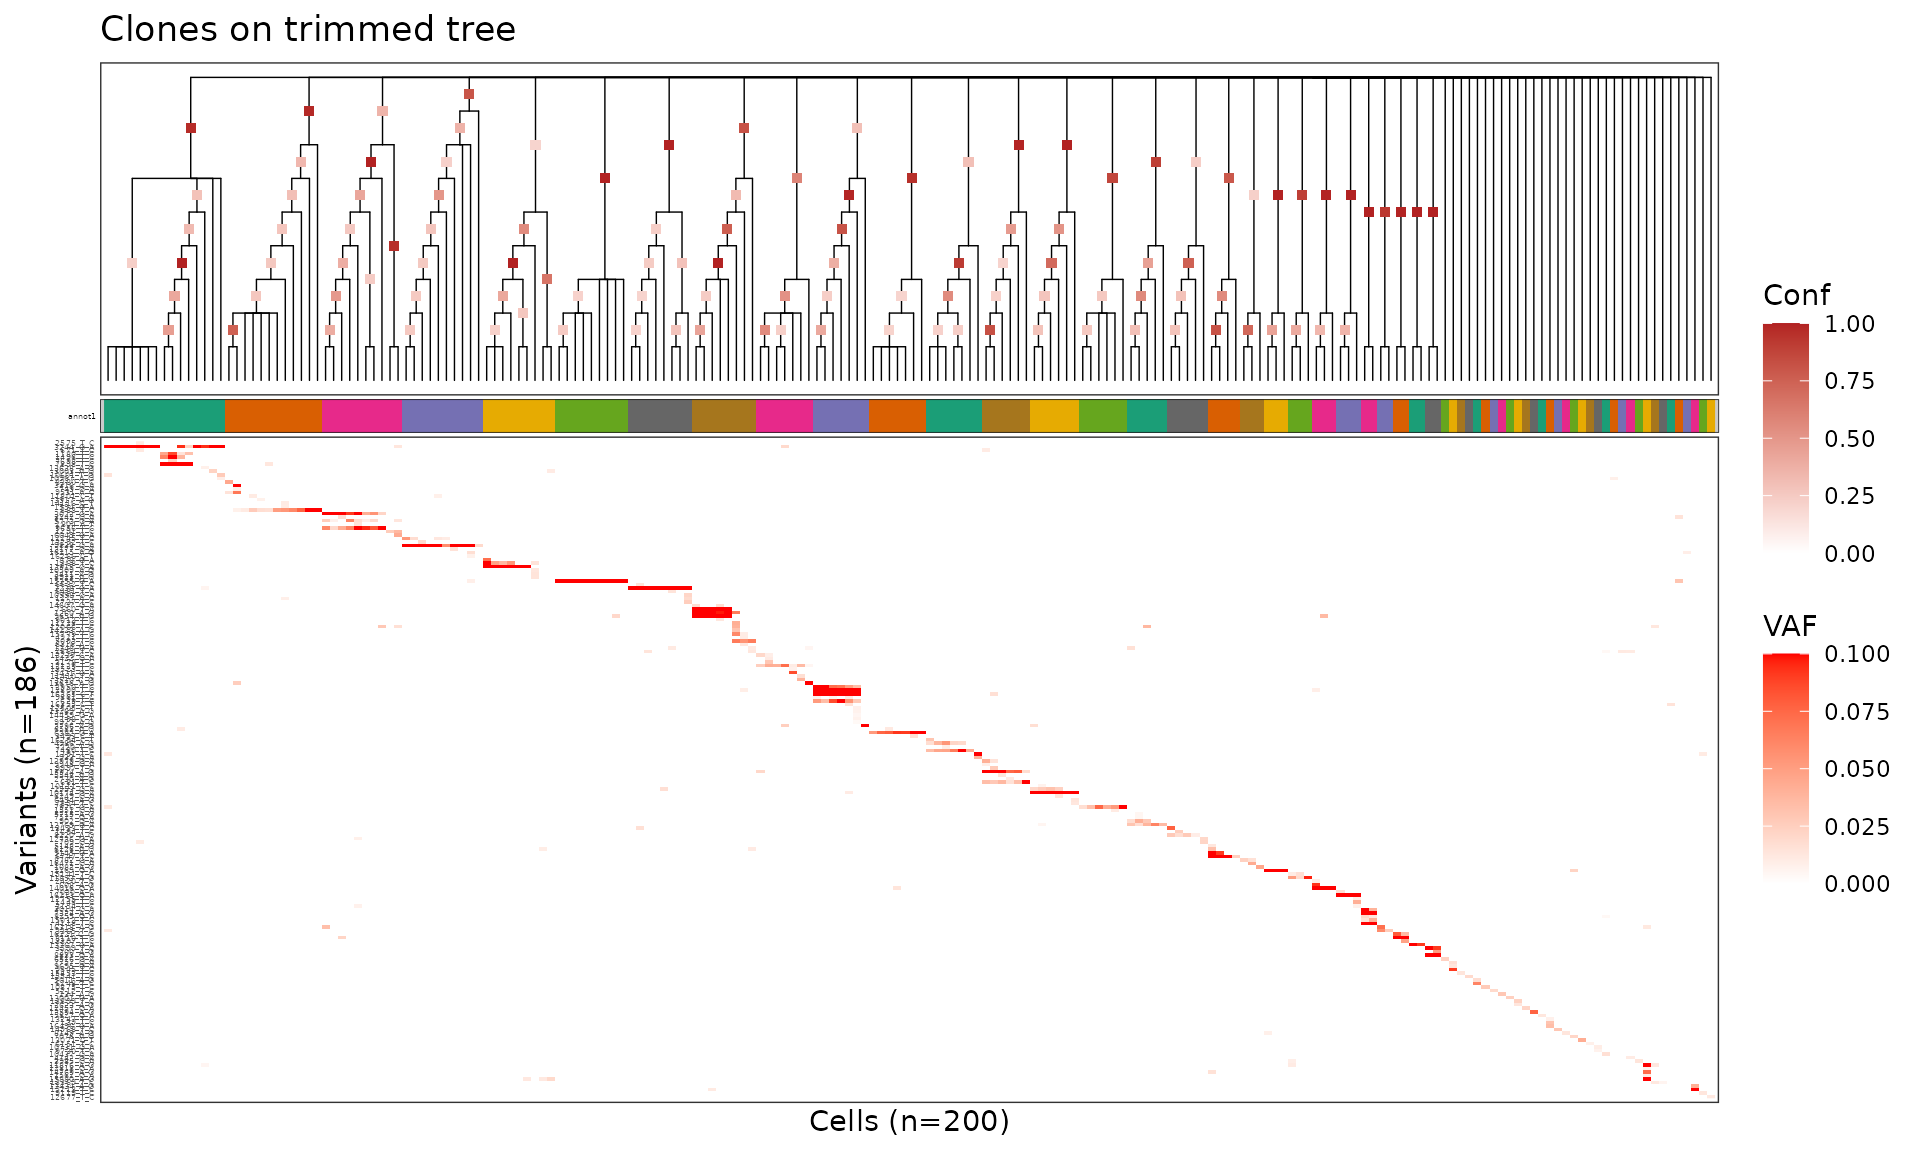
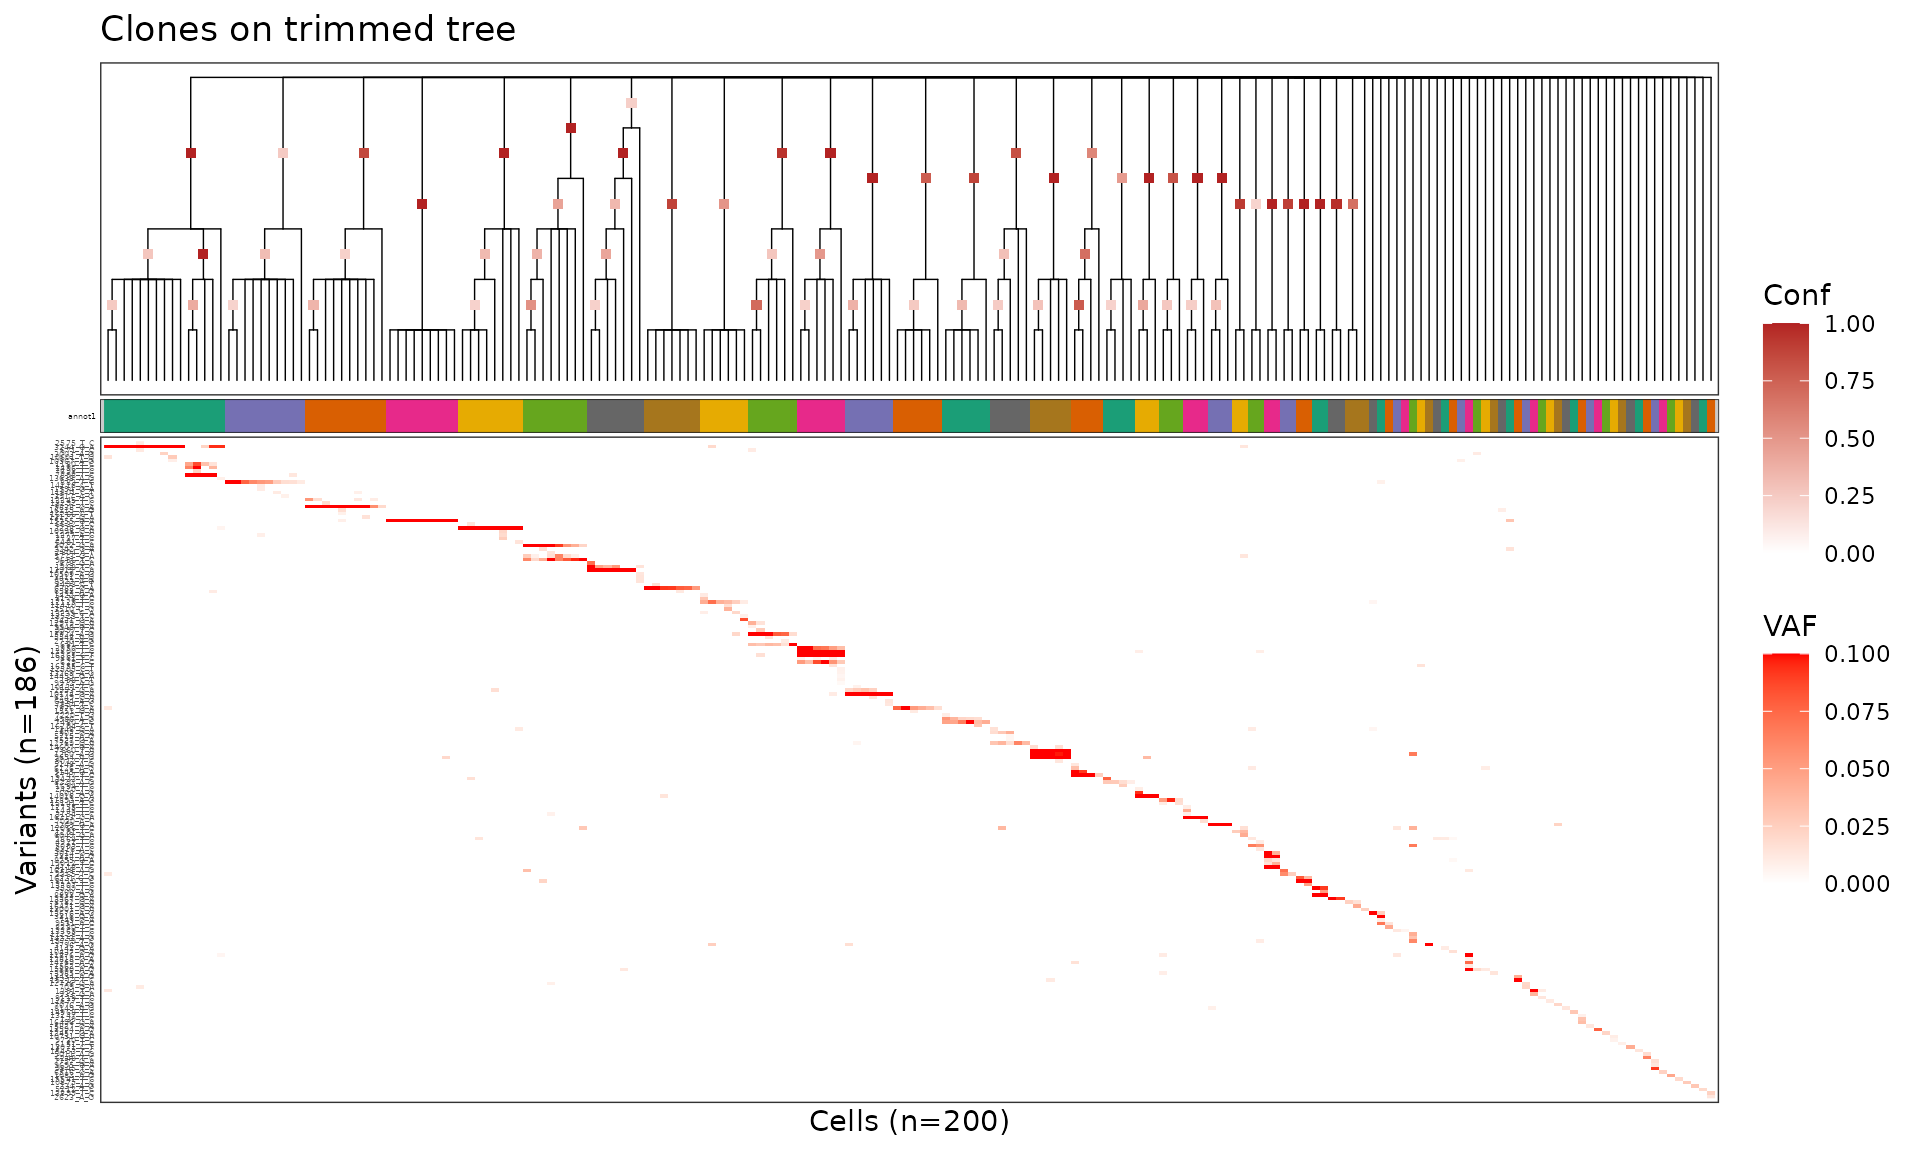
Deploying to gh-pages from @ teng-gao/mitodrift@2159cbc944da03ff266cebc3220e5bf2f8469588 🚀

diff --git a/articles/analysis-workflow.html b/articles/analysis-workflow.html
@@ -94,13 +94,23 @@ lineage tree.</li>
 <span><span class="kw"><a href="https://rdrr.io/r/base/library.html" class="external-link">library</a></span><span class="op">(</span><span class="va"><a href="https://patchwork.data-imaginist.com" class="external-link">patchwork</a></span><span class="op">)</span></span></code></pre></div>
 <p>We use a small in vitro LARRY barcode sample (200 cells, 186
 variants) bundled with the package.</p>
-<div class="sourceCode" id="cb2"><pre class="downlit sourceCode r">
-<code class="sourceCode R"><span><span class="fu"><a href="https://rdrr.io/r/utils/data.html" class="external-link">data</a></span><span class="op">(</span><span class="va">pL1000_tree_annot</span><span class="op">)</span></span>
-<span><span class="fu"><a href="https://rdrr.io/r/utils/data.html" class="external-link">data</a></span><span class="op">(</span><span class="va">pL1000_mut_dat</span><span class="op">)</span></span></code></pre></div>
-<p>In a typical workflow you would load the annotated tree from
-MitoDrift output:</p>
+<p>Run the same inference command used in the README:</p>
+<div class="sourceCode" id="cb2"><pre class="sourceCode bash"><code class="sourceCode bash"><span id="cb2-1"><a href="#cb2-1" tabindex="-1"></a><span class="ex">Rscript</span> inst/bin/run_mitodrift_em.R <span class="dt">\</span></span>
+<span id="cb2-2"><a href="#cb2-2" tabindex="-1"></a>  <span class="at">--mut_dat</span> inst/extdata/pL1000_mut_dat.csv <span class="dt">\</span></span>
+<span id="cb2-3"><a href="#cb2-3" tabindex="-1"></a>  <span class="at">--outdir</span> mitodrift_demo <span class="dt">\</span></span>
+<span id="cb2-4"><a href="#cb2-4" tabindex="-1"></a>  <span class="at">--tree_mcmc_iter</span> 5000 <span class="dt">\</span></span>
+<span id="cb2-5"><a href="#cb2-5" tabindex="-1"></a>  <span class="at">--tree_mcmc_chains</span> 4 <span class="dt">\</span></span>
+<span id="cb2-6"><a href="#cb2-6" tabindex="-1"></a>  <span class="at">--tree_mcmc_burnin</span> 1000</span></code></pre></div>
+<p>This writes <code>mitodrift_demo/mitodrift_object.rds</code> and
+<code>mitodrift_demo/tree_annotated.newick</code>. The workflow below
+uses the same mutation table and an annotated tree generated with those
+settings.</p>
 <div class="sourceCode" id="cb3"><pre class="downlit sourceCode r">
-<code class="sourceCode R"><span><span class="co"># tree_annot &lt;- ape::read.tree("tree_annotated.newick")</span></span></code></pre></div>
+<code class="sourceCode R"><span><span class="va">mut_dat</span> <span class="op">&lt;-</span> <span class="fu"><a href="https://rdrr.io/r/utils/read.table.html" class="external-link">read.csv</a></span><span class="op">(</span></span>
+<span>  <span class="fu"><a href="https://rdrr.io/r/base/system.file.html" class="external-link">system.file</a></span><span class="op">(</span><span class="st">"extdata"</span>, <span class="st">"pL1000_mut_dat.csv"</span>, package <span class="op">=</span> <span class="st">"mitodrift"</span><span class="op">)</span></span>
+<span><span class="op">)</span></span>
+<span><span class="fu"><a href="https://rdrr.io/r/utils/data.html" class="external-link">data</a></span><span class="op">(</span><span class="va">pL1000_tree_annot</span><span class="op">)</span></span>
+<span><span class="va">tree_annot</span> <span class="op">&lt;-</span> <span class="va">pL1000_tree_annot</span></span></code></pre></div>
 </div>
 <div class="section level2">
 <h2 id="visualize-the-full-binary-tree">Visualize the full binary tree<a class="anchor" aria-label="anchor" href="#visualize-the-full-binary-tree"></a>
@@ -110,8 +120,8 @@ variant heteroplasmy heatmap. Setting <code>node_conf = TRUE</code>
 colours internal nodes by their confidence score.</p>
 <div class="sourceCode" id="cb4"><pre class="downlit sourceCode r">
 <code class="sourceCode R"><span><span class="fu"><a href="../reference/plot_phylo_heatmap2.html">plot_phylo_heatmap2</a></span><span class="op">(</span></span>
-<span>  <span class="va">pL1000_tree_annot</span>,</span>
-<span>  <span class="va">pL1000_mut_dat</span>,</span>
+<span>  <span class="va">tree_annot</span>,</span>
+<span>  <span class="va">mut_dat</span>,</span>
 <span>  node_conf <span class="op">=</span> <span class="cn">TRUE</span>,</span>
 <span>  dot_size <span class="op">=</span> <span class="fl">2</span>,</span>
 <span>  branch_length <span class="op">=</span> <span class="cn">FALSE</span>,</span>
@@ -127,7 +137,7 @@ partitions against tree clades across a sweep of confidence cutoffs.
 This helps identify a threshold that balances precision (are the clades
 real?) and recall (are we keeping enough structure?).</p>
 <div class="sourceCode" id="cb5"><pre class="downlit sourceCode r">
-<code class="sourceCode R"><span><span class="va">pr_df</span> <span class="op">&lt;-</span> <span class="fu"><a href="../reference/compute_variant_pr_curve.html">compute_variant_pr_curve</a></span><span class="op">(</span><span class="va">pL1000_tree_annot</span>, <span class="va">pL1000_mut_dat</span><span class="op">)</span></span>
+<code class="sourceCode R"><span><span class="va">pr_df</span> <span class="op">&lt;-</span> <span class="fu"><a href="../reference/compute_variant_pr_curve.html">compute_variant_pr_curve</a></span><span class="op">(</span><span class="va">tree_annot</span>, <span class="va">mut_dat</span><span class="op">)</span></span>
 <span><span class="fu"><a href="../reference/plot_prec_recall_vs_conf.html">plot_prec_recall_vs_conf</a></span><span class="op">(</span></span>
 <span>  <span class="va">pr_df</span>,</span>
 <span>  sample_name <span class="op">=</span> <span class="st">"Variant-based precision recall"</span>,</span>
@@ -141,13 +151,13 @@ real?) and recall (are we keeping enough structure?).</p>
 <p>Collapse low-confidence nodes below the chosen threshold with
 <code><a href="../reference/trim_tree.html">trim_tree()</a></code>.</p>
 <div class="sourceCode" id="cb6"><pre class="downlit sourceCode r">
-<code class="sourceCode R"><span><span class="va">tree_trim</span> <span class="op">&lt;-</span> <span class="fu"><a href="../reference/trim_tree.html">trim_tree</a></span><span class="op">(</span><span class="va">pL1000_tree_annot</span>, conf <span class="op">=</span> <span class="fl">0.2</span><span class="op">)</span></span></code></pre></div>
+<code class="sourceCode R"><span><span class="va">tree_trim</span> <span class="op">&lt;-</span> <span class="fu"><a href="../reference/trim_tree.html">trim_tree</a></span><span class="op">(</span><span class="va">tree_annot</span>, conf <span class="op">=</span> <span class="fl">0.2</span><span class="op">)</span></span></code></pre></div>
 <p>Visualize the trimmed tree — polytomies replace poorly supported
 splits.</p>
 <div class="sourceCode" id="cb7"><pre class="downlit sourceCode r">
 <code class="sourceCode R"><span><span class="fu"><a href="../reference/plot_phylo_heatmap2.html">plot_phylo_heatmap2</a></span><span class="op">(</span></span>
 <span>  <span class="va">tree_trim</span>,</span>
-<span>  <span class="va">pL1000_mut_dat</span>,</span>
+<span>  <span class="va">mut_dat</span>,</span>
 <span>  node_conf <span class="op">=</span> <span class="cn">TRUE</span>,</span>
 <span>  dot_size <span class="op">=</span> <span class="fl">2</span>,</span>
 <span>  branch_length <span class="op">=</span> <span class="cn">FALSE</span>,</span>
@@ -166,12 +176,12 @@ based on the polytomy structure of the trimmed tree.</p>
 <pre><code><span><span class="co">## <span style="color: #949494;"># A tibble: 6 × 6</span></span></span>
 <span><span class="co">##   cell               clade clade_node annot  size  frac</span></span>
 <span><span class="co">##   <span style="color: #949494; font-style: italic;">&lt;chr&gt;</span>              <span style="color: #949494; font-style: italic;">&lt;chr&gt;</span>      <span style="color: #949494; font-style: italic;">&lt;int&gt;</span> <span style="color: #949494; font-style: italic;">&lt;chr&gt;</span> <span style="color: #949494; font-style: italic;">&lt;int&gt;</span> <span style="color: #949494; font-style: italic;">&lt;dbl&gt;</span></span></span>
-<span><span class="co">## <span style="color: #BCBCBC;">1</span> CAACTAATCATTGACA-1 1            220 1        15 0.075</span></span>
-<span><span class="co">## <span style="color: #BCBCBC;">2</span> GTTCATTTCGGTTTGG-1 1            220 1        15 0.075</span></span>
-<span><span class="co">## <span style="color: #BCBCBC;">3</span> GGGCAATAGGCCCAGT-1 1            220 1        15 0.075</span></span>
-<span><span class="co">## <span style="color: #BCBCBC;">4</span> ATGTAAGCAATTGCGC-1 1            220 1        15 0.075</span></span>
-<span><span class="co">## <span style="color: #BCBCBC;">5</span> AGCTGCTCATAATTGC-1 1            220 1        15 0.075</span></span>
-<span><span class="co">## <span style="color: #BCBCBC;">6</span> GTTTCAGCAACACTTG-1 1            220 1        15 0.075</span></span></code></pre>
+<span><span class="co">## <span style="color: #BCBCBC;">1</span> CAACTAATCATTGACA-1 1            202 1        15 0.075</span></span>
+<span><span class="co">## <span style="color: #BCBCBC;">2</span> GTTCATTTCGGTTTGG-1 1            202 1        15 0.075</span></span>
+<span><span class="co">## <span style="color: #BCBCBC;">3</span> ATGTAAGCAATTGCGC-1 1            202 1        15 0.075</span></span>
+<span><span class="co">## <span style="color: #BCBCBC;">4</span> GGGCAATAGGCCCAGT-1 1            202 1        15 0.075</span></span>
+<span><span class="co">## <span style="color: #BCBCBC;">5</span> CAGCCTAAGACAACAG-1 1            202 1        15 0.075</span></span>
+<span><span class="co">## <span style="color: #BCBCBC;">6</span> TAGGCTAGTCGAAGTC-1 1            202 1        15 0.075</span></span></code></pre>
 </div>
 <div class="section level2">
 <h2 id="visualize-clones">Visualize clones<a class="anchor" aria-label="anchor" href="#visualize-clones"></a>
@@ -185,7 +195,7 @@ and a circular layout.</p>
 <div class="sourceCode" id="cb11"><pre class="downlit sourceCode r">
 <code class="sourceCode R"><span><span class="fu"><a href="../reference/plot_phylo_heatmap2.html">plot_phylo_heatmap2</a></span><span class="op">(</span></span>
 <span>  <span class="va">tree_trim</span>,</span>
-<span>  <span class="va">pL1000_mut_dat</span>,</span>
+<span>  <span class="va">mut_dat</span>,</span>
 <span>  cell_annot <span class="op">=</span> <span class="va">clone_df</span>,</span>
 <span>  annot_pal <span class="op">=</span> <span class="va">clone_pal</span>,</span>
 <span>  node_conf <span class="op">=</span> <span class="cn">TRUE</span>,</span>

diff --git a/index.html b/index.html
@@ -70,20 +70,20 @@
 <div class="section level2">
 <h2 id="quick-start">Quick start<a class="anchor" aria-label="anchor" href="#quick-start"></a>
 </h2>
-<p>This uses a tiny example dataset packaged under <code>inst/extdata/</code>.</p>
-<p>You can run this from a terminal in the package root (these settings are intentionally small/fast for a demo):</p>
+<p>This uses a pL1000 subset dataset packaged under <code>inst/extdata/</code> (200 cells, 186 variants).</p>
+<p>You can run this from a terminal in the package root:</p>
 <div class="sourceCode" id="cb3"><pre class="sourceCode bash"><code class="sourceCode bash"><span id="cb3-1"><a href="#cb3-1" tabindex="-1"></a><span class="ex">Rscript</span> inst/bin/run_mitodrift_em.R <span class="dt">\</span></span>
-<span id="cb3-2"><a href="#cb3-2" tabindex="-1"></a>  <span class="at">--mut_dat</span> inst/extdata/small_test_mut_dat.csv <span class="dt">\</span></span>
+<span id="cb3-2"><a href="#cb3-2" tabindex="-1"></a>  <span class="at">--mut_dat</span> inst/extdata/pL1000_mut_dat.csv <span class="dt">\</span></span>
 <span id="cb3-3"><a href="#cb3-3" tabindex="-1"></a>  <span class="at">--outdir</span> mitodrift_demo <span class="dt">\</span></span>
-<span id="cb3-4"><a href="#cb3-4" tabindex="-1"></a>  <span class="at">--tree_mcmc_iter</span> 50 <span class="dt">\</span></span>
-<span id="cb3-5"><a href="#cb3-5" tabindex="-1"></a>  <span class="at">--tree_mcmc_chains</span> 2 <span class="dt">\</span></span>
-<span id="cb3-6"><a href="#cb3-6" tabindex="-1"></a>  <span class="at">--tree_mcmc_burnin</span> 10</span></code></pre></div>
+<span id="cb3-4"><a href="#cb3-4" tabindex="-1"></a>  <span class="at">--tree_mcmc_iter</span> 5000 <span class="dt">\</span></span>
+<span id="cb3-5"><a href="#cb3-5" tabindex="-1"></a>  <span class="at">--tree_mcmc_chains</span> 4 <span class="dt">\</span></span>
+<span id="cb3-6"><a href="#cb3-6" tabindex="-1"></a>  <span class="at">--tree_mcmc_burnin</span> 1000</span></code></pre></div>
 <p>Outputs in <code>mitodrift_demo/</code> include <code>mitodrift_object.rds</code> plus tree files and diagnostics.</p>
 <p>Once the run finishes:</p>
 <div class="sourceCode" id="cb4"><pre class="downlit sourceCode r">
 <code class="sourceCode R"><span><span class="kw"><a href="https://rdrr.io/r/base/library.html" class="external-link">library</a></span><span class="op">(</span><span class="va"><a href="https://teng-gao.github.io/mitodrift/">mitodrift</a></span><span class="op">)</span></span>
 <span><span class="va">mut_dat</span> <span class="op">&lt;-</span> <span class="fu"><a href="https://rdrr.io/r/utils/read.table.html" class="external-link">read.csv</a></span><span class="op">(</span></span>
-<span>  <span class="fu"><a href="https://rdrr.io/r/base/system.file.html" class="external-link">system.file</a></span><span class="op">(</span><span class="st">"extdata"</span>, <span class="st">"small_test_mut_dat.csv"</span>, package <span class="op">=</span> <span class="st">"mitodrift"</span><span class="op">)</span></span>
+<span>  <span class="fu"><a href="https://rdrr.io/r/base/system.file.html" class="external-link">system.file</a></span><span class="op">(</span><span class="st">"extdata"</span>, <span class="st">"pL1000_mut_dat.csv"</span>, package <span class="op">=</span> <span class="st">"mitodrift"</span><span class="op">)</span></span>
 <span><span class="op">)</span></span>
 <span><span class="va">md</span> <span class="op">&lt;-</span> <span class="fu"><a href="https://rdrr.io/r/base/readRDS.html" class="external-link">readRDS</a></span><span class="op">(</span><span class="st">"mitodrift_demo/mitodrift_object.rds"</span><span class="op">)</span></span>
 <span><span class="va">phy_trim</span> <span class="op">&lt;-</span> <span class="fu"><a href="reference/trim_tree.html">trim_tree</a></span><span class="op">(</span><span class="va">md</span><span class="op">$</span><span class="va">tree_annot</span>, conf <span class="op">=</span> <span class="fl">0.5</span><span class="op">)</span></span>

diff --git a/articles/analysis-workflow.md b/articles/analysis-workflow.md
@@ -28,16 +28,27 @@ library(patchwork)
 We use a small in vitro LARRY barcode sample (200 cells, 186 variants)
 bundled with the package.
 
-``` r
-data(pL1000_tree_annot)
-data(pL1000_mut_dat)
+Run the same inference command used in the README:
+
+``` bash
+Rscript inst/bin/run_mitodrift_em.R \
+  --mut_dat inst/extdata/pL1000_mut_dat.csv \
+  --outdir mitodrift_demo \
+  --tree_mcmc_iter 5000 \
+  --tree_mcmc_chains 4 \
+  --tree_mcmc_burnin 1000
 ```
 
-In a typical workflow you would load the annotated tree from MitoDrift
-output:
+This writes `mitodrift_demo/mitodrift_object.rds` and
+`mitodrift_demo/tree_annotated.newick`. The workflow below uses the same
+mutation table and an annotated tree generated with those settings.
 
 ``` r
-# tree_annot <- ape::read.tree("tree_annotated.newick")
+mut_dat <- read.csv(
+  system.file("extdata", "pL1000_mut_dat.csv", package = "mitodrift")
+)
+data(pL1000_tree_annot)
+tree_annot <- pL1000_tree_annot
 ```
 
 ## Visualize the full binary tree
@@ -48,8 +59,8 @@ displays the tree alongside a variant heteroplasmy heatmap. Setting
 
 ``` r
 plot_phylo_heatmap2(
-  pL1000_tree_annot,
-  pL1000_mut_dat,
+  tree_annot,
+  mut_dat,
   node_conf = TRUE,
   dot_size = 2,
   branch_length = FALSE,
@@ -68,7 +79,7 @@ balances precision (are the clades real?) and recall (are we keeping
 enough structure?).
 
 ``` r
-pr_df <- compute_variant_pr_curve(pL1000_tree_annot, pL1000_mut_dat)
+pr_df <- compute_variant_pr_curve(tree_annot, mut_dat)
 plot_prec_recall_vs_conf(
   pr_df,
   sample_name = "Variant-based precision recall",
@@ -84,7 +95,7 @@ Collapse low-confidence nodes below the chosen threshold with
 [`trim_tree()`](https://teng-gao.github.io/mitodrift/reference/trim_tree.md).
 
 ``` r
-tree_trim <- trim_tree(pL1000_tree_annot, conf = 0.2)
+tree_trim <- trim_tree(tree_annot, conf = 0.2)
 ```
 
 Visualize the trimmed tree — polytomies replace poorly supported splits.
@@ -92,7 +103,7 @@ Visualize the trimmed tree — polytomies replace poorly supported splits.
 ``` r
 plot_phylo_heatmap2(
   tree_trim,
-  pL1000_mut_dat,
+  mut_dat,
   node_conf = TRUE,
   dot_size = 2,
   branch_length = FALSE,
@@ -116,12 +127,12 @@ head(clone_df)
     ## # A tibble: 6 × 6
     ##   cell               clade clade_node annot  size  frac
     ##   <chr>              <chr>      <int> <chr> <int> <dbl>
-    ## 1 CAACTAATCATTGACA-1 1            220 1        15 0.075
-    ## 2 GTTCATTTCGGTTTGG-1 1            220 1        15 0.075
-    ## 3 GGGCAATAGGCCCAGT-1 1            220 1        15 0.075
-    ## 4 ATGTAAGCAATTGCGC-1 1            220 1        15 0.075
-    ## 5 AGCTGCTCATAATTGC-1 1            220 1        15 0.075
-    ## 6 GTTTCAGCAACACTTG-1 1            220 1        15 0.075
+    ## 1 CAACTAATCATTGACA-1 1            202 1        15 0.075
+    ## 2 GTTCATTTCGGTTTGG-1 1            202 1        15 0.075
+    ## 3 ATGTAAGCAATTGCGC-1 1            202 1        15 0.075
+    ## 4 GGGCAATAGGCCCAGT-1 1            202 1        15 0.075
+    ## 5 CAGCCTAAGACAACAG-1 1            202 1        15 0.075
+    ## 6 TAGGCTAGTCGAAGTC-1 1            202 1        15 0.075
 
 ## Visualize clones
 
@@ -137,7 +148,7 @@ clone_pal <- make_clade_pal(length(clade_order), labels = clade_order,
 ``` r
 plot_phylo_heatmap2(
   tree_trim,
-  pL1000_mut_dat,
+  mut_dat,
   cell_annot = clone_df,
   annot_pal = clone_pal,
   node_conf = TRUE,

diff --git a/index.md b/index.md
@@ -38,18 +38,18 @@ remotes::install_cran("qs2", type = "source", configure.args = "--with-TBB --wit
 
 ## Quick start
 
-This uses a tiny example dataset packaged under `inst/extdata/`.
+This uses a pL1000 subset dataset packaged under `inst/extdata/` (200
+cells, 186 variants).
 
-You can run this from a terminal in the package root (these settings are
-intentionally small/fast for a demo):
+You can run this from a terminal in the package root:
 
 ``` bash
 Rscript inst/bin/run_mitodrift_em.R \
-  --mut_dat inst/extdata/small_test_mut_dat.csv \
+  --mut_dat inst/extdata/pL1000_mut_dat.csv \
   --outdir mitodrift_demo \
-  --tree_mcmc_iter 50 \
-  --tree_mcmc_chains 2 \
-  --tree_mcmc_burnin 10
+  --tree_mcmc_iter 5000 \
+  --tree_mcmc_chains 4 \
+  --tree_mcmc_burnin 1000
 ```
 
 Outputs in `mitodrift_demo/` include `mitodrift_object.rds` plus tree
@@ -60,7 +60,7 @@ Once the run finishes:
 ``` r
 library(mitodrift)
 mut_dat <- read.csv(
-  system.file("extdata", "small_test_mut_dat.csv", package = "mitodrift")
+  system.file("extdata", "pL1000_mut_dat.csv", package = "mitodrift")
 )
 md <- readRDS("mitodrift_demo/mitodrift_object.rds")
 phy_trim <- trim_tree(md$tree_annot, conf = 0.5)
